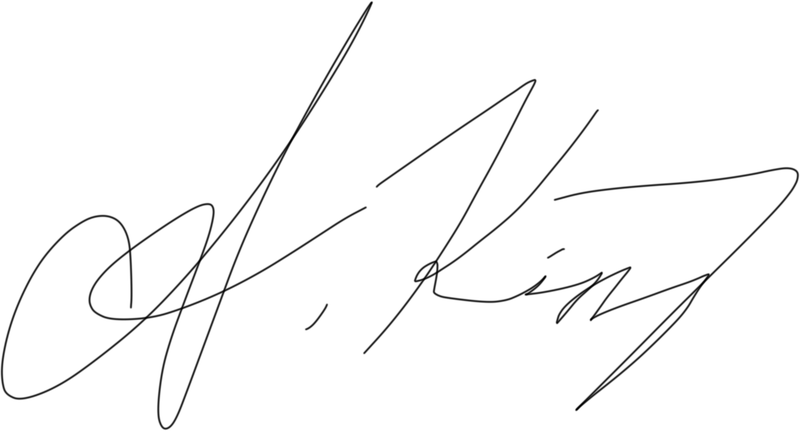
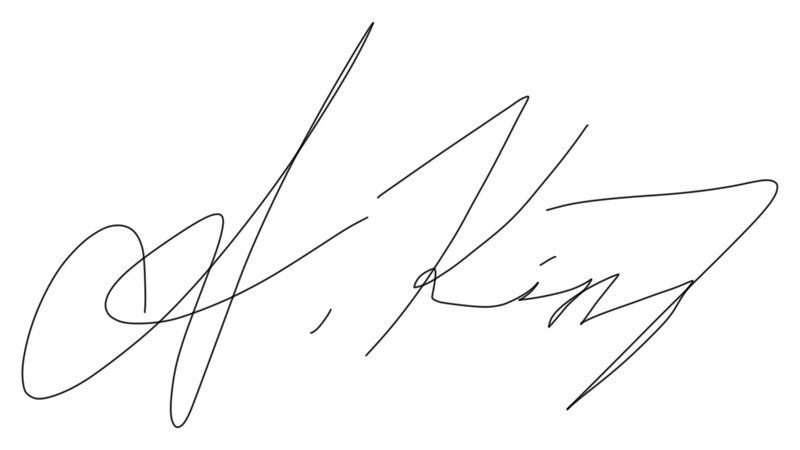
Signature: right-aligned, uncut edges, 10% smaller

diff --git a/about.html b/about.html
@@ -11,7 +11,7 @@
   <link rel="preconnect" href="https://fonts.googleapis.com" />
   <link rel="preconnect" href="https://fonts.gstatic.com" crossorigin />
   <link href="https://fonts.googleapis.com/css2?family=Playfair+Display:wght@500;600&family=Pinyon+Script&family=Inter:wght@400;500;600;700&display=swap" rel="stylesheet" />
-  <link rel="stylesheet" href="css/style.css?v=43" />
+  <link rel="stylesheet" href="css/style.css?v=44" />
   <link rel="prefetch" href="index.html" />
   <link rel="prefetch" href="gallery.html" />
   <link rel="prefetch" href="contact.html" />

diff --git a/index.html b/index.html
@@ -11,7 +11,7 @@
   <link rel="preconnect" href="https://fonts.googleapis.com" />
   <link rel="preconnect" href="https://fonts.gstatic.com" crossorigin />
   <link href="https://fonts.googleapis.com/css2?family=Playfair+Display:wght@500;600&family=Pinyon+Script&family=Inter:wght@400;500;600;700&display=swap" rel="stylesheet" />
-  <link rel="stylesheet" href="css/style.css?v=43" />
+  <link rel="stylesheet" href="css/style.css?v=44" />
   <link rel="prefetch" href="gallery.html" />
   <link rel="prefetch" href="about.html" />
   <link rel="prefetch" href="contact.html" />

diff --git a/contact.html b/contact.html
@@ -11,7 +11,7 @@
   <link rel="preconnect" href="https://fonts.googleapis.com" />
   <link rel="preconnect" href="https://fonts.gstatic.com" crossorigin />
   <link href="https://fonts.googleapis.com/css2?family=Playfair+Display:wght@500;600&family=Pinyon+Script&family=Inter:wght@400;500;600;700&display=swap" rel="stylesheet" />
-  <link rel="stylesheet" href="css/style.css?v=43" />
+  <link rel="stylesheet" href="css/style.css?v=44" />
   <link rel="prefetch" href="index.html" />
   <link rel="prefetch" href="gallery.html" />
   <link rel="prefetch" href="about.html" />

diff --git a/gallery.html b/gallery.html
@@ -11,7 +11,7 @@
   <link rel="preconnect" href="https://fonts.googleapis.com" />
   <link rel="preconnect" href="https://fonts.gstatic.com" crossorigin />
   <link href="https://fonts.googleapis.com/css2?family=Playfair+Display:wght@500;600&family=Pinyon+Script&family=Inter:wght@400;500;600;700&display=swap" rel="stylesheet" />
-  <link rel="stylesheet" href="css/style.css?v=43" />
+  <link rel="stylesheet" href="css/style.css?v=44" />
   <link rel="prefetch" href="index.html" />
   <link rel="prefetch" href="about.html" />
   <link rel="prefetch" href="contact.html" />

diff --git a/css/style.css b/css/style.css
@@ -633,8 +633,8 @@ h1, h2, h3 { font-family: var(--font-display); line-height: 1.2; }
 .prose p { color: #111; font-size: 19px; }
 .prose p:first-of-type { color: #111; font-size: 19px; }
 /* letter-style signature under the bio */
-.signature { text-align: right; margin-top: 16px; }
-.signature img { width: 280px; max-width: 65%; height: auto; }
+.signature { display: flex; justify-content: flex-end; margin-top: 16px; }
+.signature img { width: 252px; max-width: 60%; height: auto; }
 
 .contact-cards {
   display: grid;
